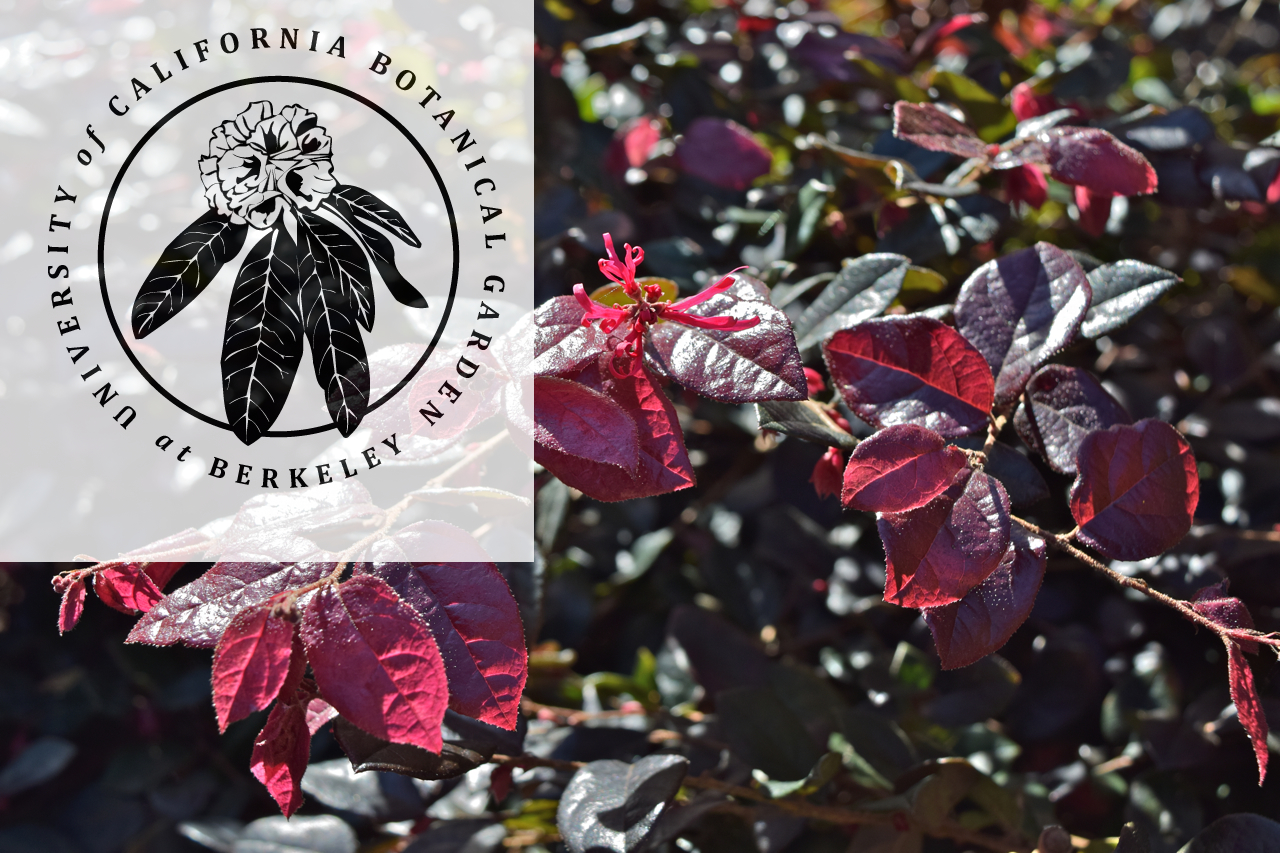
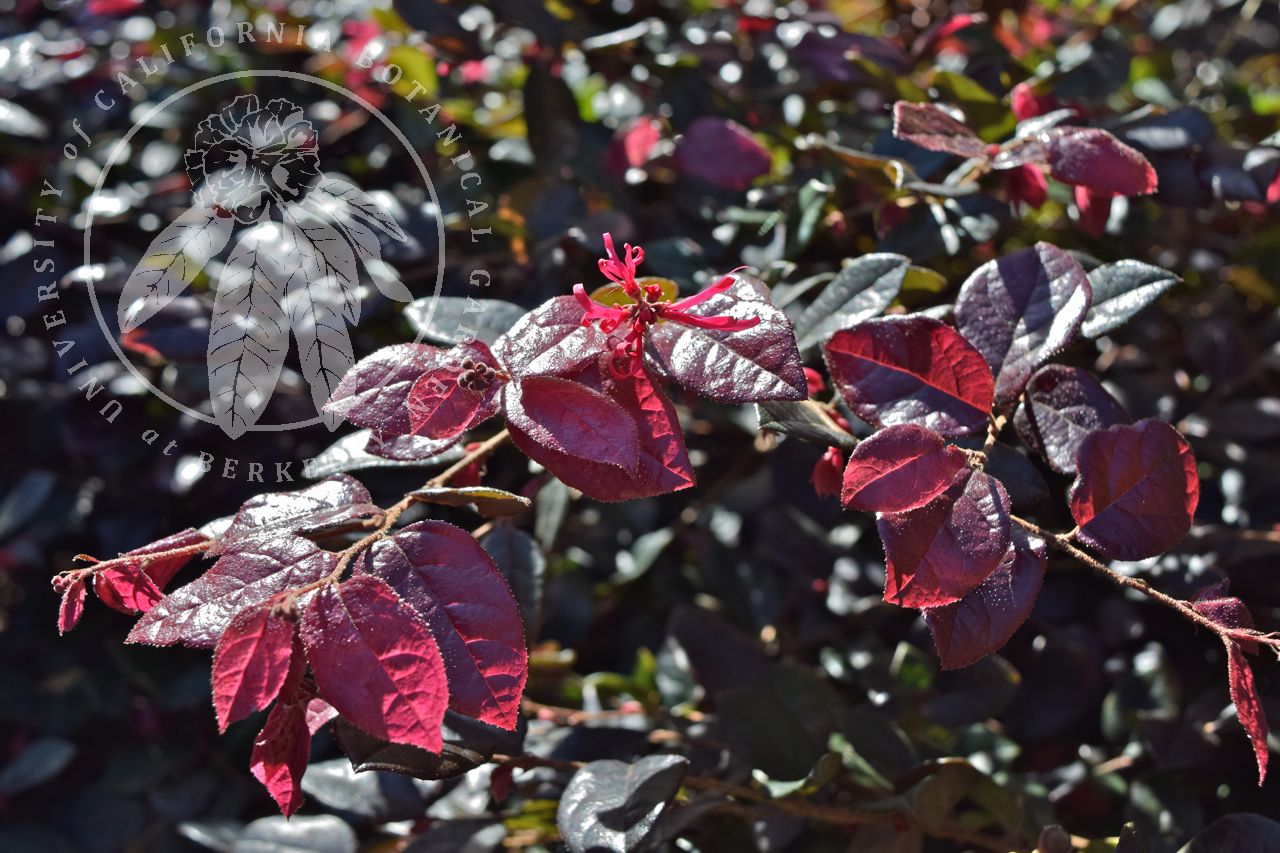
DJAN-98: improved botgarden watermark: white with transparent

Changed region(s): [[0.0, 0.0, 0.4375, 0.6706]]

diff --git a/imageserver/watermark/watermark_demo.py b/imageserver/watermark/watermark_demo.py
@@ -3,7 +3,7 @@ import sys
 # https://stackoverflow.com/questions/5324647/how-to-merge-a-transparent-png-image-with-another-image-using-pil
 
 image1 = '8fe92c97.jpg'
-image2 = 'botgarden_watermark_1.jpg'
+image2 = 'botgarden_watermark_520x520_trans_white.png'
  
 from PIL import Image
 
@@ -26,7 +26,7 @@ from wand.image import Image
 
 with Image(filename=image1) as background:
     with Image(filename=image2) as watermark:
-        background.watermark(image=watermark, transparency=0.20)
+        background.watermark(image=watermark, transparency=0.60)
     background.save(filename='watermark.jpg')
     print 'save wand %s' % 'watermark.jpg'
 

diff --git a/imageserver/views.py b/imageserver/views.py
@@ -11,7 +11,6 @@ import time
 import logging
 import base64
 import re
-import StringIO
 
 config = cspace.getConfig(path.join(settings.BASE_PARENT_DIR, 'config'), 'imageserver')
 username = config.get('connect', 'username')
@@ -131,7 +130,6 @@ def get_image(request, image):
         try:
             data = add_watermark(data, watermark_image)
         except:
-            raise
             logger.info('%s :: %s :: %s' % ('watermark failed', '-', url))
     elapsedtime = time.time() - elapsedtime
     logger.info('%s :: %s :: %s' % (msg, '-', '%s :: %8.3f seconds' % (image, elapsedtime)))
